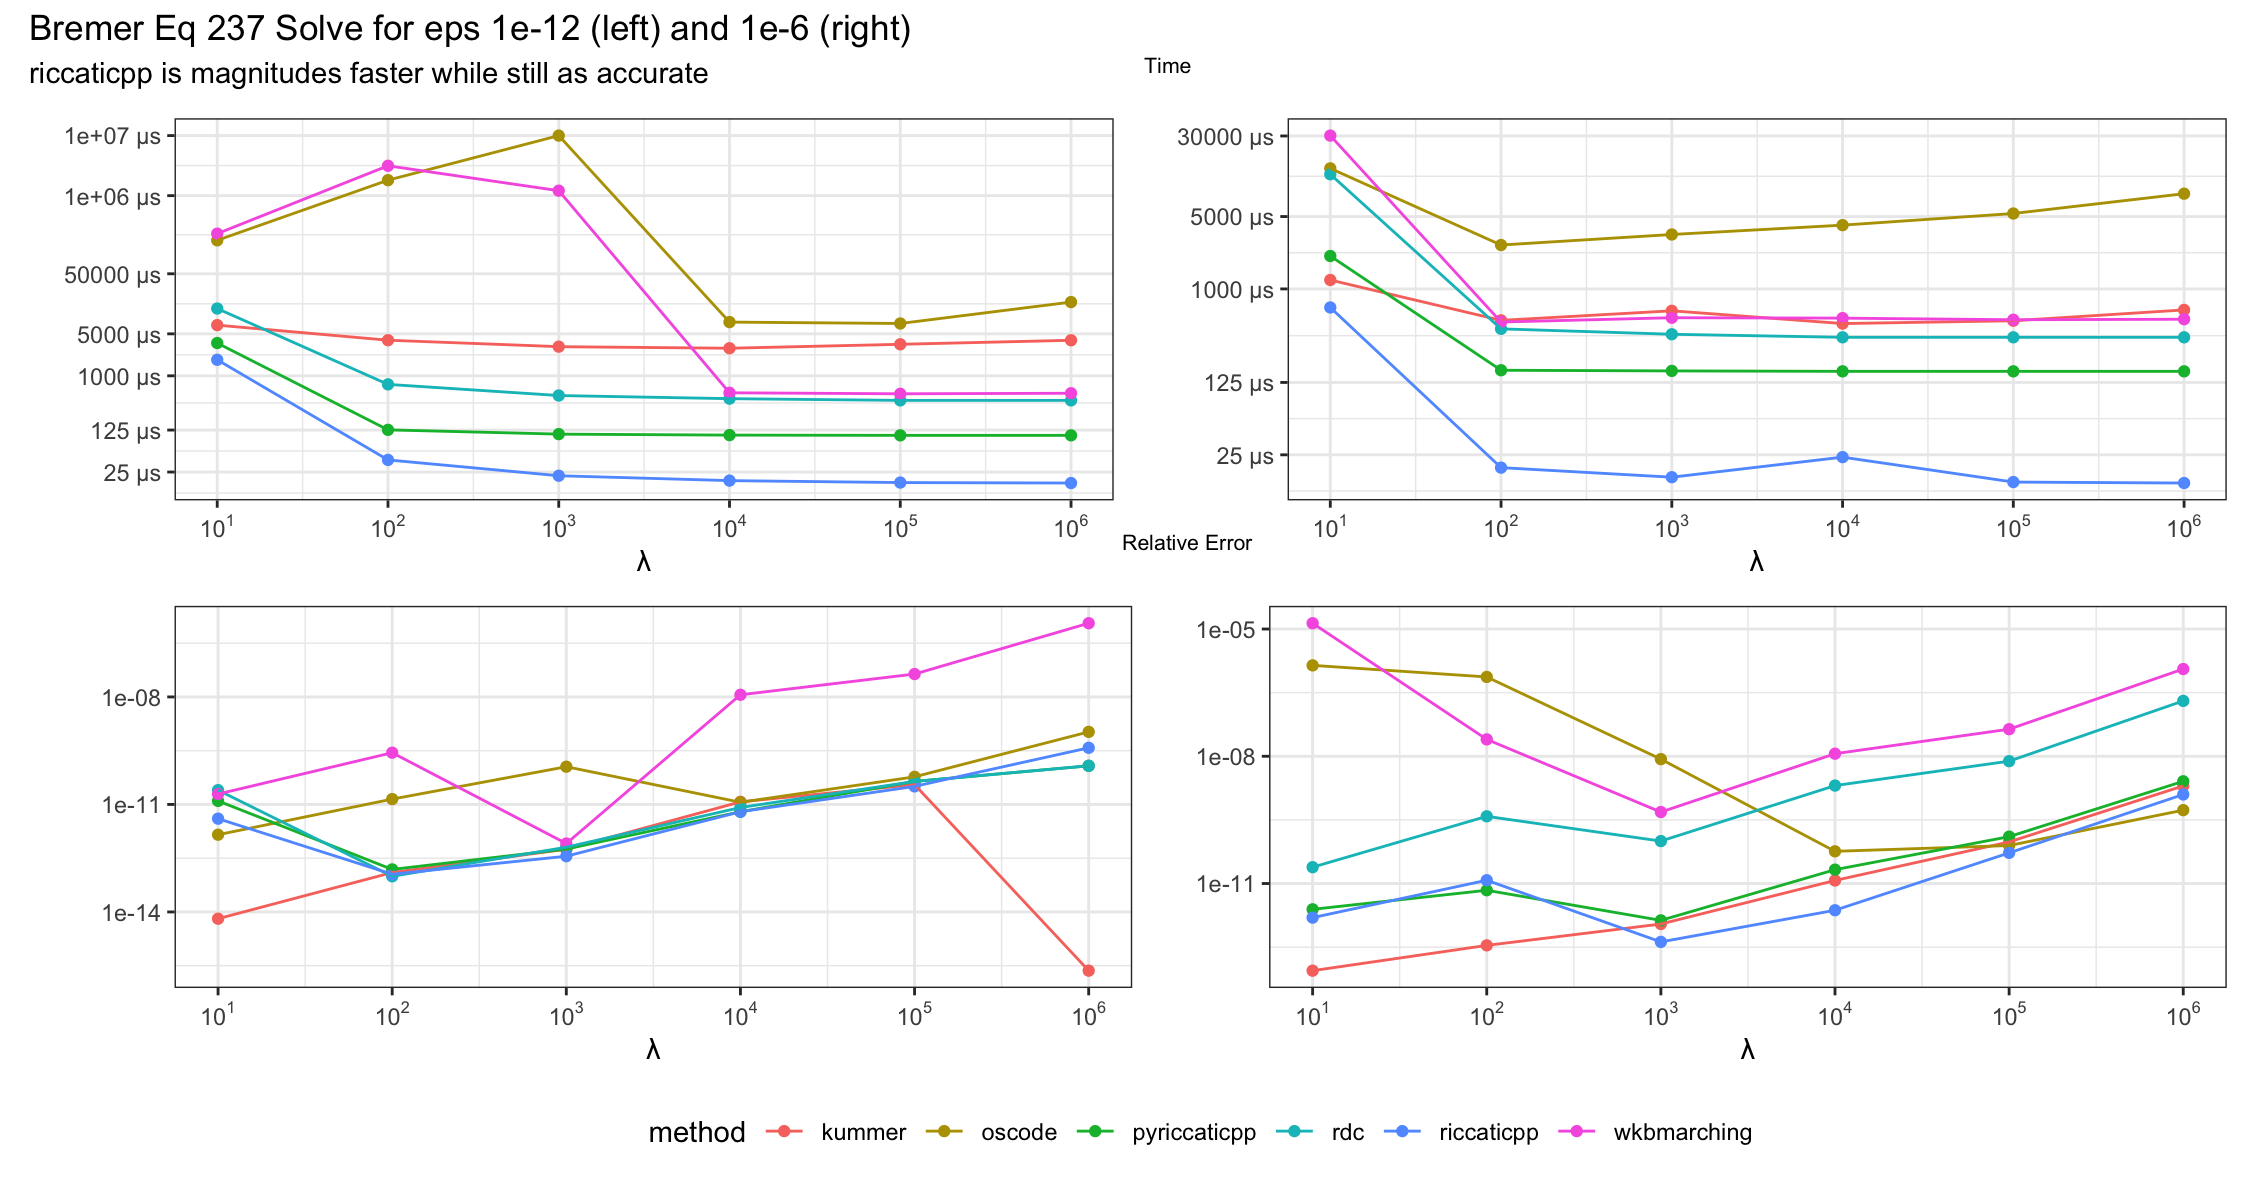
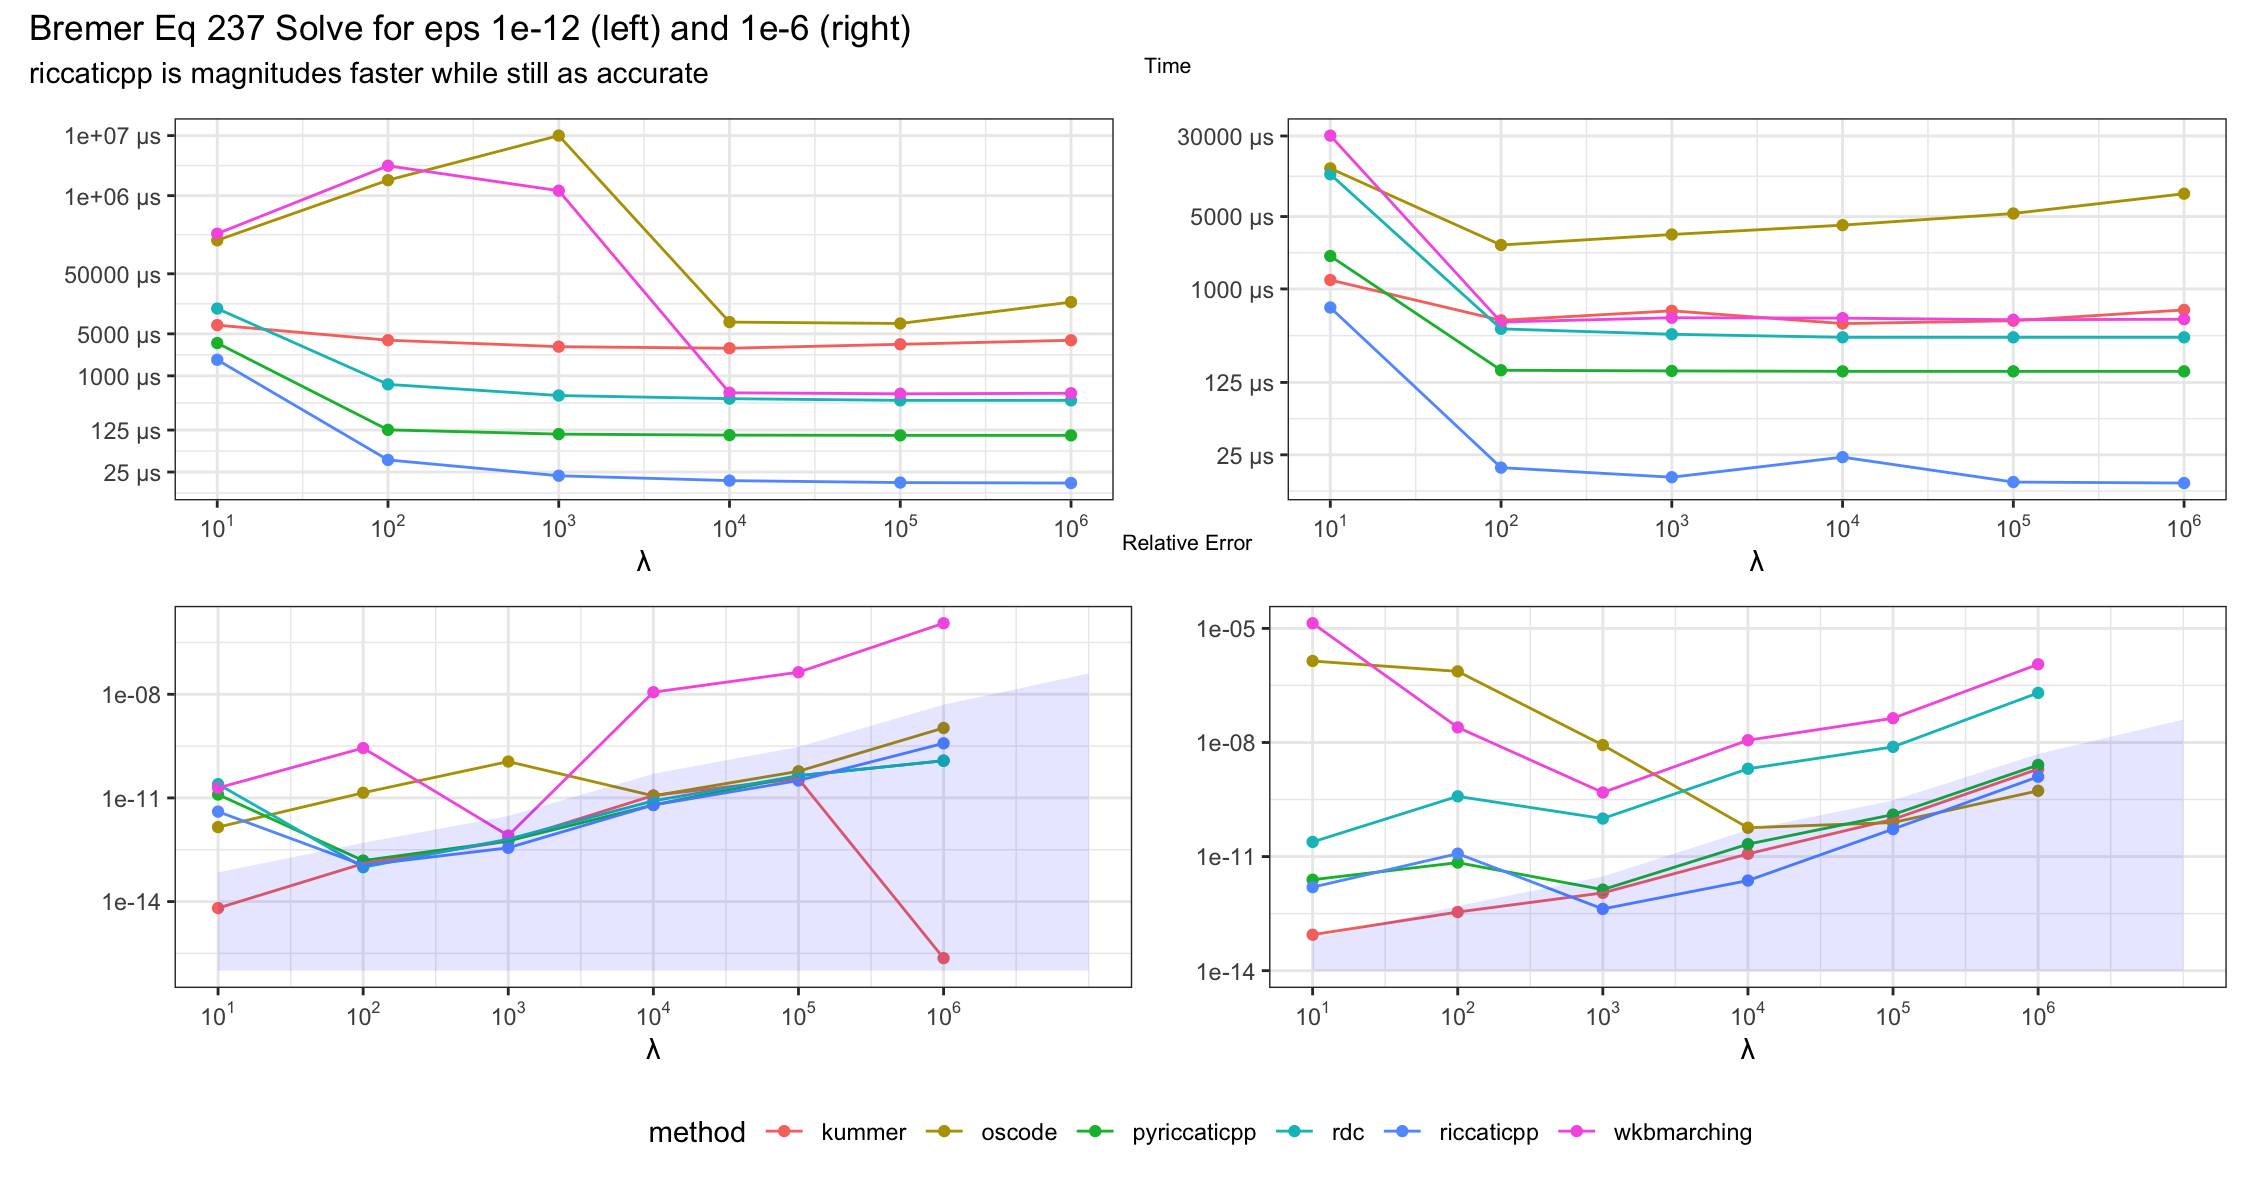
update picture

Changed region(s): [[0.031, 0.525, 0.4965, 0.8648], [0.5275, 0.525, 0.9929, 0.8648], [0.5275, 0.6177, 0.5585, 0.6486]]

diff --git a/README.md b/README.md
@@ -33,9 +33,18 @@ cd build/python/benchmark
 make -j4 figgen
 ```
 
+Below is a graph camparing several methods over Bremer's phase function method on Eq. (237) in Bremer 2018. The omega and gamma functions are given by the following.
+
+$$
+\omega(x) = \lambda \sqrt{1 - x^2 \cos(3x)}
+\gamma(x) = 0
+$$
+
 ![bench1](./imgs/bremer_together.png)
 
-
+The blue area in the graph of errors is the best possible lower bound for error calculated by Bremer. 
+Because the results of each algorithm are compared relative to Bremer's values, the algorithms may report 
+smaller values than the actual possible error, but should be considered bounded by the blue area.
 
 ## Documentation
 
